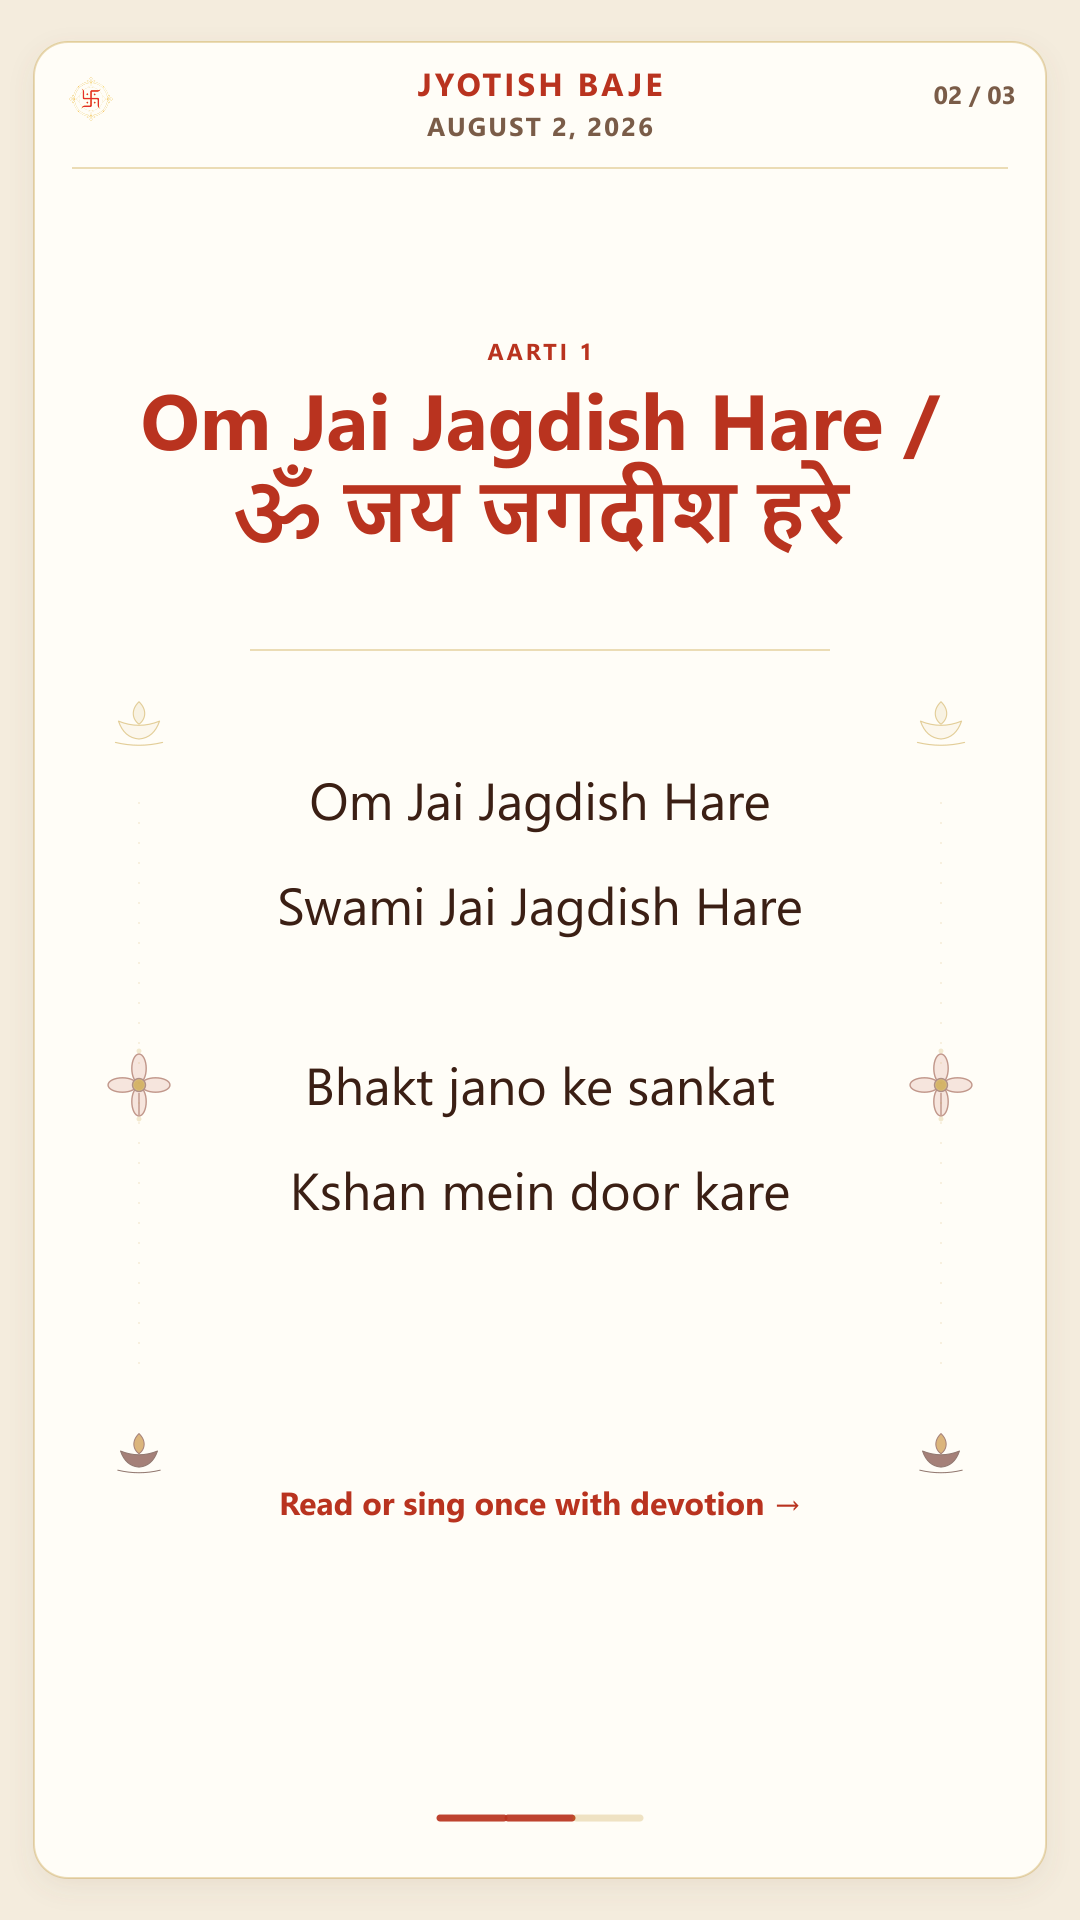
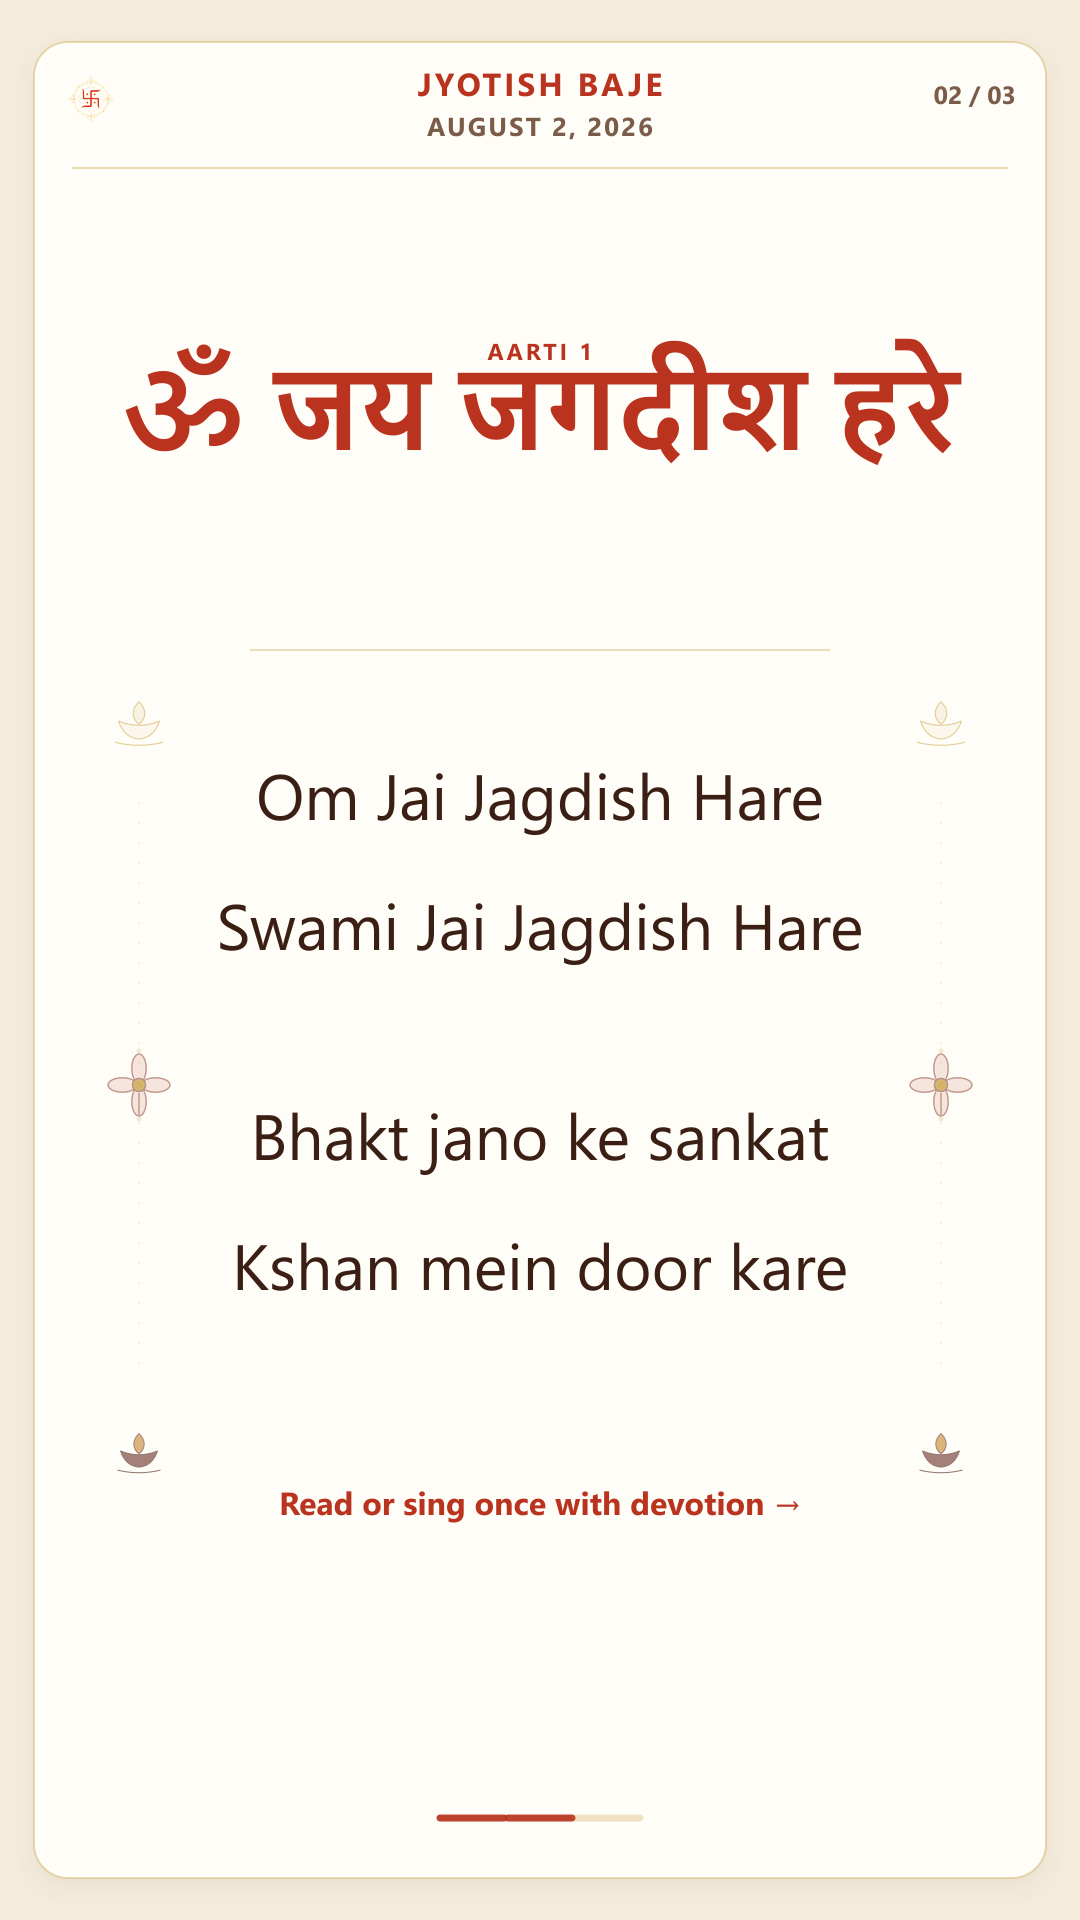
Enlarge Devanagari aarti titles

diff --git a/Instagram/2026-08-02/evening-aarti/README.md b/Instagram/2026-08-02/evening-aarti/README.md
@@ -3,8 +3,8 @@
 Three-slide evening aarti package for Instagram and TikTok in the light cream app-style Rashifal layout.
 
 - Slide 1: `Sandhya Aarti / सन्ध्या आरती` intro
-- Slide 2: short `Om Jai Jagdish Hare` aarti in two paragraph blocks
-- Slide 3: short `Jai Ambe Gauri` aarti in two paragraph blocks
+- Slide 2: short `Om Jai Jagdish Hare` aarti in two paragraph blocks, with an enlarged Devanagari title and English verses
+- Slide 3: short `Jai Ambe Gauri` aarti in two paragraph blocks, with an enlarged Devanagari title and English verses
 - The `JYOTISH BAJE`, date, and read/save cue use the slightly larger size preference
 - Instagram: `exports/02-instagram/01.png` through `03.png`, 1080 x 1350
 - TikTok: `exports/01-tiktok/01.png` through `03.png`, 1080 x 1920
